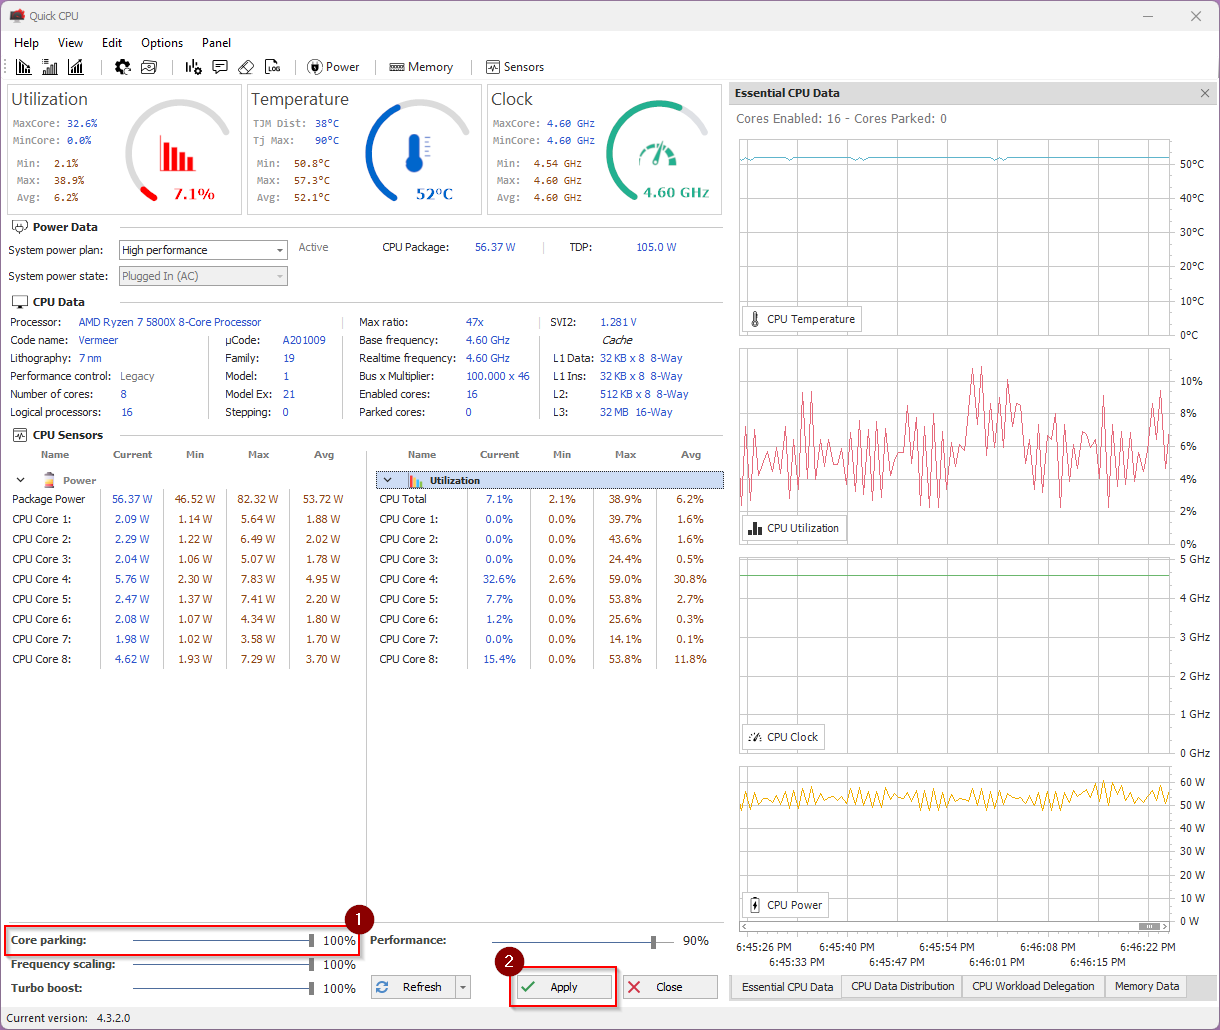
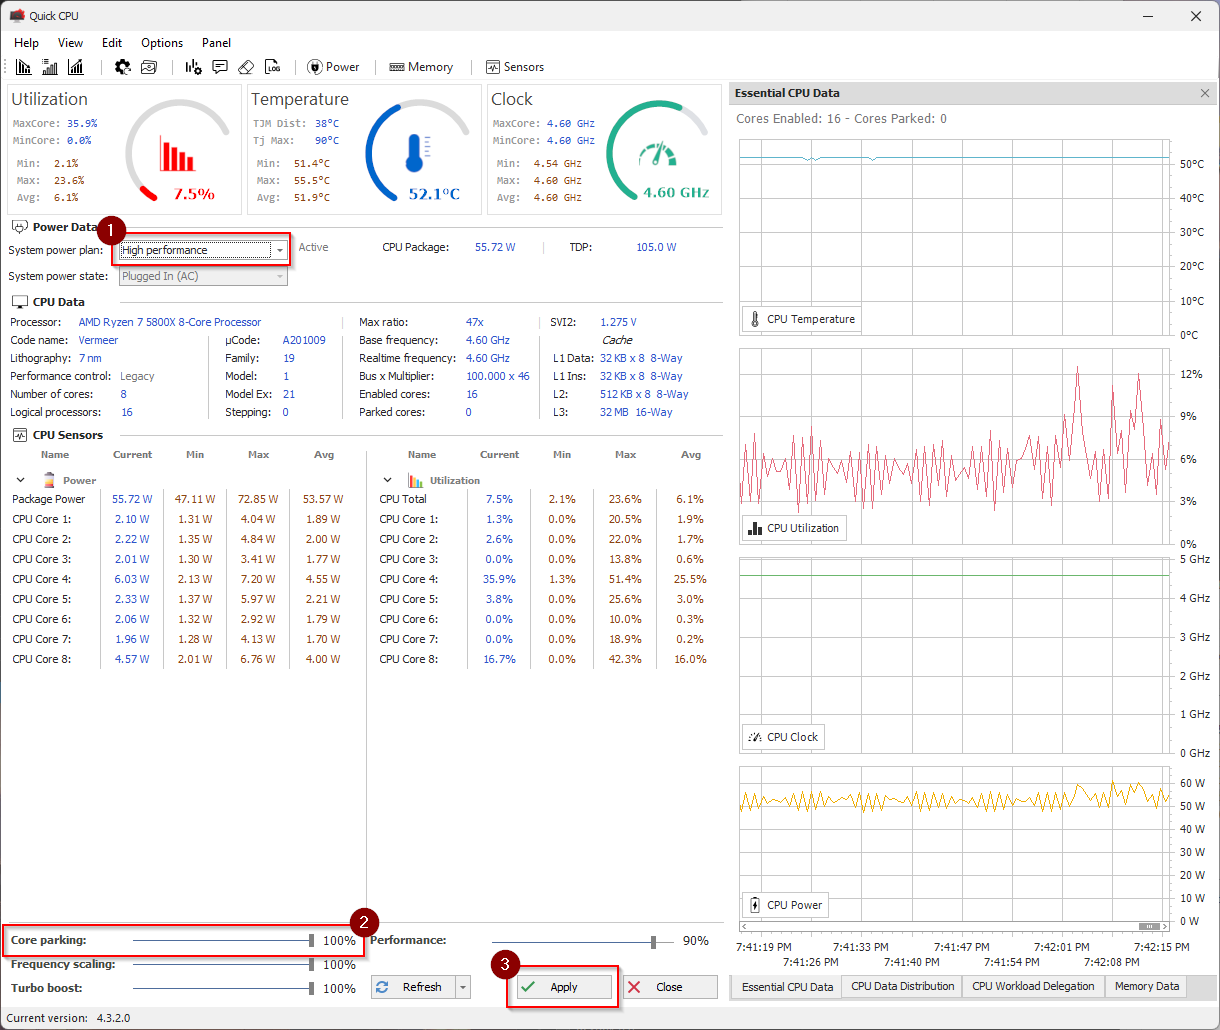
Updated CPU Core Parking & Theme

diff --git a/assets/css/style.scss b/assets/css/style.scss
@@ -8,5 +8,5 @@
 @import "{{ site.theme }}";
 
 .inner {
-    max-width: 80%;
+    max-width: 65%;
 }

diff --git a/ps2_settings/ps2Settings.md b/ps2_settings/ps2Settings.md
@@ -1,19 +1,27 @@
 # PS2 Settings and PC Optimizations
 
-A collection of my settings and optimizations. Mileage may vary.
+A collection of settings and optimizations I've collected over the years. Mileage may vary.
 
-<span style="color:red;font-size:18px">
-I am in no way responsible if you somehow manage to break something.
+**If you see something inaccurate, please let me know. I'm always keen to learn something new.**
+
+<span style="color:red;font-size:22px">
+I am in no way responsible if you somehow manage to break something. Follow along at your own peril.
 </span>
 
-## My Specs
+## My Specs & Performance
 
 Here are my specs so you have a reference point to compare to.
 
-CPU: AMD 5800x @ 4.6Ghz (Overclocked)
-RAM: Crucial 64GB @ 3600Mhz
-GPU: Nvidia GTX 2080 Ti
+OS: Windows 11 Pro (Version 21H2)
+CPU: AMD Ryzen 7 5800x @ 4.6Ghz (Overclocked on all cores - Base I think is 3.8Ghz)
+RAM: Crucial Ballistix 64GB @ 3600Mhz (Stock)
+GPU: Asus Nvidia GTX 2080 Ti (Stock)
 SSD: Samsung 970 Evo Plus 1Tb M.2 SSD - Game drive only. OS is on a separate M.2.
+
+At warpgate I average around 380 FPS with it occasionally going as high as 430 FPS.
+At big 100+ fights it drops down to around 150-180.
+
+**Huge thanks to Leondre and Coltorl for pointing out Malwarebytes eating my frames like a bio lab farm.**
 
 ---
 
@@ -27,19 +35,19 @@ I disable this to reduce latency to the server. Basically it waits to fill up a 
 **WARNING**
 </span>
 
-This involves editing the registry. Do not mess with anything else in here unless you want to introduce problems.
+This involves editing the Windows registry. Do not mess with anything else in here unless you know what you are doing.
 
-**Grab your primary network adapter's IPv4 address**
+**Save Your Primary Network Adapter's IPv4 Address**
 1. `Right-click` on the `Start Menu` icon.
 2. Select `Run`.
-3. Type `cmd` into the bar and press `OK`.
+3. Type in `cmd` and press `OK`.
 4. In the black window that shows up, type in `ipconfig /all` and press `Enter`.
 5. Save the `IPv4 address` of your primary network adapter. We will use this later. 
-   - Typically, the correct adapter will have your ISP name show up under `Connection-specific DNS Suffix`.
+   - Typically, the correct adapter will have your ISP's name show up under `Connection-specific DNS Suffix`.
 
 ![ipconfig example](/ps2_settings/images/ipconfig.png)
 
-**Disabling Nagle's Algorithm**
+**Disable Nagle's Algorithm**
 1. `Right-click` on the `Start Menu` icon.
 2. Select `Run`.
 3. Type in `regedit` and press `Ok`.
@@ -61,8 +69,17 @@ This involves editing the registry. Do not mess with anything else in here unles
 
 --- 
 
-### CPU Core Parking
+### CPU Core Parking & System Power Plans
 
-CPU core parking is a CPU power optimization that downclocks your CPU cores when not under load to decrease heat and power consumption. It takes time for your cores to ramp back up to full speed and results in lower and stuttery FPS performance. Disabling core parking will result in smoother and higher FPS performance at the cost of more heat and a higher base power consumption.
+CPU core parking is a CPU power optimization that downclocks your CPU cores when not under load to decrease heat and power consumption. It takes time for your cores to ramp back up to full speed and is the cause for lower and stuttery FPS performance. Disabling core parking will result in smoother and higher FPS performance at the cost of more heat and a higher base power consumption.
 
-There are a few programs out there that can disable CPU core parking. My favorite is [QuickCPU](https://coderbag.com/product/quickcpu). 
+There are a few programs out there that can disable CPU core parking. My favorite is [QuickCPU](https://coderbag.com/product/quickcpu) because it also provides extra controls over your system's power plan. 
+
+
+**Disable CPU Core Parking**
+To turn off CPU core parking, download and install [QuickCPU](https://coderbag.com/product/quickcpu) (The download is towards the bottom of the page). Once you have it installed and open, grab the slider at the bottom of the window labeled `Core parking` and bring it to `100%` and hit `Apply`. There's no need to keep the application open once set. Enjoy the extra frames.
+
+![parking](images/parking.png)
+
+---
+
